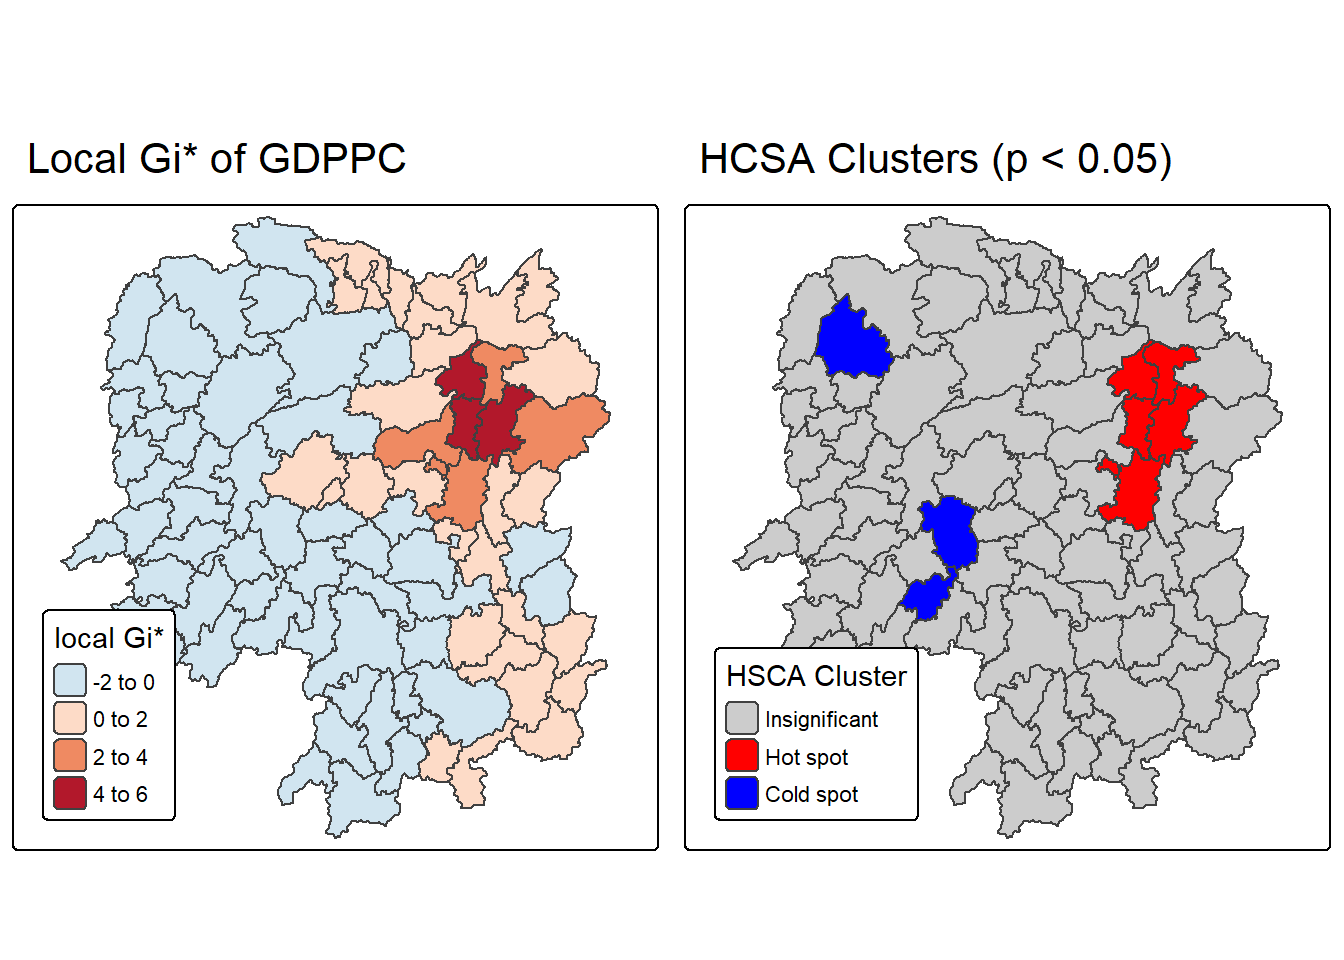
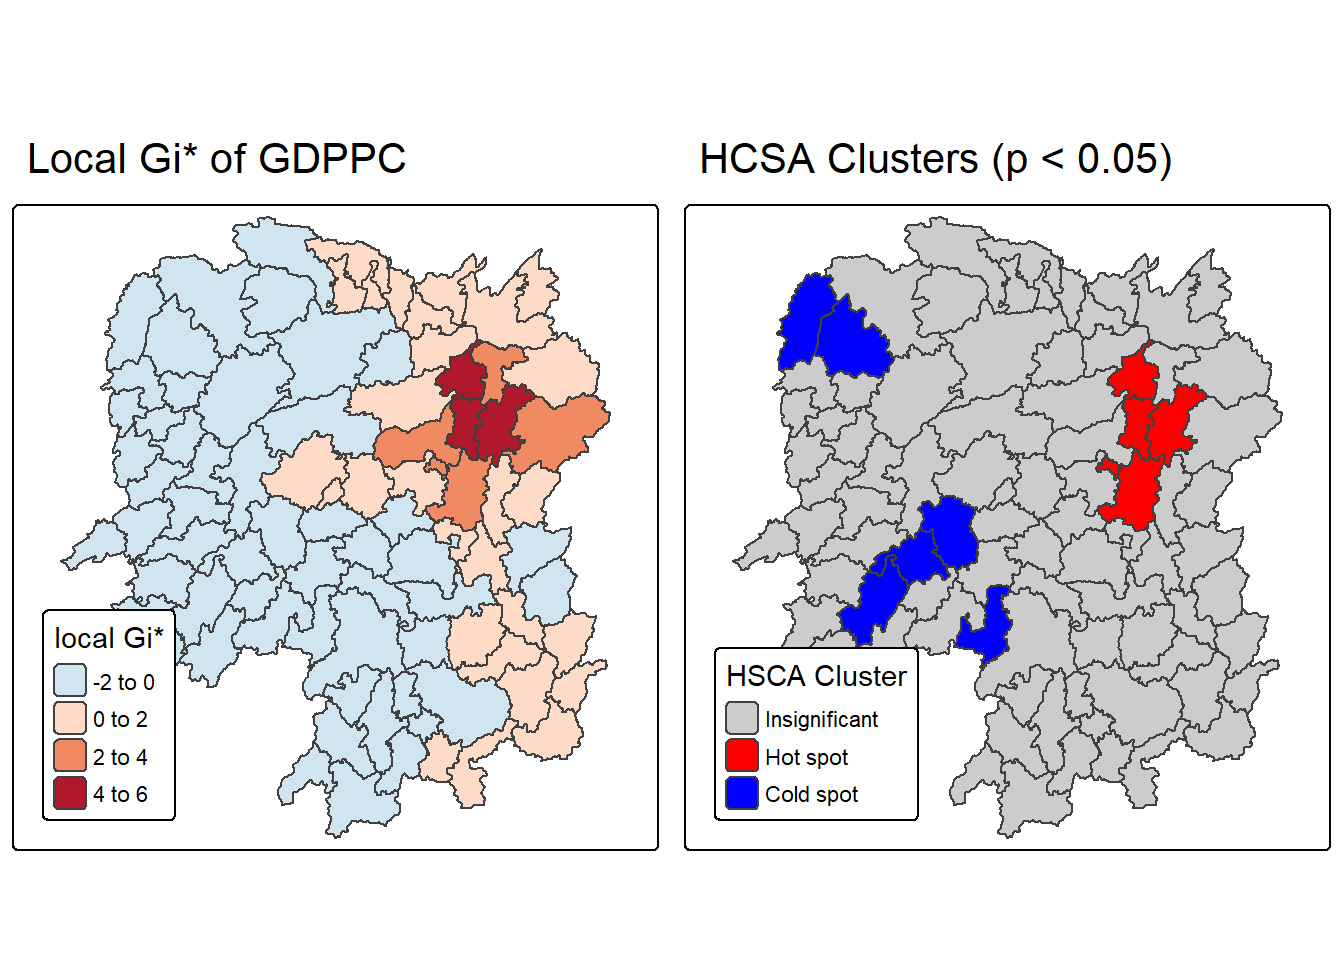
Committing changes for Hands-on Ex05b

Changed region(s): [[0.625, 0.5625, 0.75, 0.6875], [0.5625, 0.2812, 0.625, 0.375], [0.8438, 0.3438, 0.9062, 0.4375]]

diff --git a/_site/Hands-on_Ex/Hands-on_Ex05/Hands-on_Ex05b.html b/_site/Hands-on_Ex/Hands-on_Ex05/Hands-on_Ex05b.html
@@ -667,14 +667,14 @@ Tip
 <pre><code>Rows: 88
 Columns: 21
 $ ii           &lt;dbl&gt; -1.468468e-03, 2.587817e-02, -1.198765e-02, 1.022468e-03,…
-$ eii          &lt;dbl&gt; -2.978856e-03, -3.059861e-03, -5.007384e-02, -1.235785e-0…
-$ var_ii       &lt;dbl&gt; 7.392761e-04, 1.095661e-02, 8.216017e-02, 3.700893e-06, 1…
-$ z_ii         &lt;dbl&gt; 0.05555015, 0.27645917, 0.13287304, 0.59572914, 0.4190825…
-$ p_ii         &lt;dbl&gt; 9.557002e-01, 7.821954e-01, 8.942938e-01, 5.513562e-01, 6…
-$ p_ii_sim     &lt;dbl&gt; 0.78, 1.00, 0.72, 0.62, 0.62, 0.86, 0.04, 0.06, 0.02, 0.2…
-$ p_folded_sim &lt;dbl&gt; 0.39, 0.50, 0.36, 0.31, 0.31, 0.43, 0.02, 0.03, 0.01, 0.1…
-$ skewness     &lt;dbl&gt; -1.4635639, -0.8413750, 0.8119844, 0.3664154, 1.0689240, …
-$ kurtosis     &lt;dbl&gt; 3.3533741, 0.2413665, 0.2255343, -0.2958679, 1.0379487, 0…
+$ eii          &lt;dbl&gt; -1.452662e-03, 4.910310e-03, -8.368546e-03, 2.536916e-04,…
+$ var_ii       &lt;dbl&gt; 3.699390e-04, 1.136437e-02, 1.362830e-01, 5.630196e-06, 1…
+$ z_ii         &lt;dbl&gt; -0.0008217606, 0.1966896851, -0.0098034656, 0.3239948542,…
+$ p_ii         &lt;dbl&gt; 9.993443e-01, 8.440704e-01, 9.921781e-01, 7.459419e-01, 6…
+$ p_ii_sim     &lt;dbl&gt; 0.92, 0.98, 0.74, 0.70, 0.66, 0.76, 0.02, 0.14, 0.02, 0.1…
+$ p_folded_sim &lt;dbl&gt; 0.46, 0.49, 0.37, 0.35, 0.33, 0.38, 0.01, 0.07, 0.01, 0.0…
+$ skewness     &lt;dbl&gt; -0.7897984, -0.8968499, 1.3021867, 0.8454351, 0.4148598, …
+$ kurtosis     &lt;dbl&gt; 0.45812034, 0.40544752, 1.58194445, 0.23248532, -0.118471…
 $ mean         &lt;fct&gt; Low-High, Low-Low, High-Low, High-High, High-High, High-L…
 $ median       &lt;fct&gt; High-High, High-High, High-High, High-High, High-High, Hi…
 $ pysal        &lt;fct&gt; Low-High, Low-Low, High-Low, High-High, High-High, High-L…
@@ -1296,6 +1296,43 @@ fit well, and are therefore rescaled.
 </div>
 </div>
 </div>
+<div class="callout callout-style-default callout-note callout-titled">
+<div class="callout-header d-flex align-content-center">
+<div class="callout-icon-container">
+<i class="callout-icon"></i>
+</div>
+<div class="callout-title-container flex-fill">
+Note
+</div>
+</div>
+<div class="callout-body-container callout-body">
+<p>The choropleth map generated by the code visualizes the <strong>statistical significance of local Gi*</strong> values for GDP per capita (GDPPC) across regions using a <strong>fixed distance weight matrix</strong>. Each polygon is shaded based on its simulated p-value, which indicates how likely the observed clustering of high or low GDPPC values occurred by chance. Darker shades (e.g., dark red) represent lower p-values, suggesting stronger evidence of significant clustering—either hot spots or cold spots—while lighter shades (e.g., beige) indicate weaker or non-significant clustering.</p>
+<p>This visualization is crucial because it separates <strong>statistical strength</strong> from raw Gi* values. Even if a region has a high or low Gi* score, it may not be meaningful unless the p-value confirms it’s unlikely to be random. By using <code>tm_scale_intervals()</code> with defined p-value breaks (e.g., &lt;0.001, &lt;0.01, &lt;0.05), the map clearly distinguishes regions with strong spatial clustering from those with ambiguous or insignificant patterns. The inclusion of <code>include_self()</code> in the weight matrix ensures proper calculation of Gi*, and the use of <code>brewer.Reds</code> color scale emphasizes the gradient of significance.</p>
+<hr>
+<ul>
+<li><strong>Color-coded p-values</strong>:
+<ul>
+<li>&lt;0.001: Strongest evidence of clustering (dark red).</li>
+<li>0.001–0.01: Very strong evidence (red).</li>
+<li>0.01–0.05: Statistically significant (orange).</li>
+<li>0.05–0.1: Marginal significance (light orange).</li>
+<li><blockquote class="blockquote">
+<p>0.1: Not significant (beige).</p>
+</blockquote></li>
+</ul></li>
+<li><strong>Fixed distance method</strong>:
+<ul>
+<li>Neighbors defined within a set spatial threshold.</li>
+<li>Ensures consistent spatial comparison across regions.</li>
+</ul></li>
+<li><strong>Purpose</strong>:
+<ul>
+<li>Highlights where GDPPC clustering is statistically robust.</li>
+<li>Supports spatial decision-making by identifying meaningful hot/cold spots.</li>
+</ul></li>
+</ul>
+</div>
+</div>
 </section>
 <section id="mapping-both-gi-values-and-p-values" class="level4" data-number="8.3.3">
 <h4 data-number="8.3.3" class="anchored" data-anchor-id="mapping-both-gi-values-and-p-values"><span class="header-section-number">8.3.3</span> Mapping both Gi* values and p-values</h4>
@@ -1342,6 +1379,41 @@ fit well, and are therefore rescaled.
 <p><img src="Hands-on_Ex05b_files/figure-html/unnamed-chunk-28-1.png" class="img-fluid figure-img" width="672"></p>
 </figure>
 </div>
+</div>
+</div>
+<div class="callout callout-style-default callout-note callout-titled">
+<div class="callout-header d-flex align-content-center">
+<div class="callout-icon-container">
+<i class="callout-icon"></i>
+</div>
+<div class="callout-title-container flex-fill">
+Note
+</div>
+</div>
+<div class="callout-body-container callout-body">
+<p>The visualization created by the code displays two choropleth maps side by side, offering a comprehensive view of spatial clustering in GDP per capita (GDPPC) across regions. The <strong>left map</strong> shows the <strong>local Gi*</strong> statistic, which measures the intensity and direction of clustering—positive values (in red) indicate hot spots where high GDPPC values are surrounded by other high values, while negative values (in blue) indicate cold spots where low GDPPC values are clustered. This map helps identify the spatial distribution of economic performance.</p>
+<p>The <strong>right map</strong> complements this by showing the <strong>p-values</strong> associated with each Gi* statistic, using a fixed distance weight matrix. Regions shaded in darker reds have lower p-values, indicating stronger statistical significance and higher confidence that the observed clustering is not due to random chance. Lighter shades suggest weaker or non-significant clustering. Together, these maps allow for a more robust interpretation—highlighting not just where clustering occurs, but where it is statistically meaningful.</p>
+<hr>
+<ul>
+<li><strong>Local Gi* Map (Left):</strong>
+<ul>
+<li>Red shades: High-value clusters (hot spots).</li>
+<li>Blue shades: Low-value clusters (cold spots).</li>
+<li>Uses <code>brewer.rd_bu</code> for diverging color scale.</li>
+</ul></li>
+<li><strong>P-value Map (Right):</strong>
+<ul>
+<li>Dark red: p &lt; 0.001 (very strong significance).</li>
+<li>Red to orange: p &lt; 0.05 (statistically significant).</li>
+<li>Light peach: p ≥ 0.05 (not significant).</li>
+<li>Uses <code>brewer.reds</code> for sequential color scale.</li>
+</ul></li>
+<li><strong>Interpretation Strategy:</strong>
+<ul>
+<li>Focus on regions with both high Gi* and low p-values.</li>
+<li>These are statistically significant hot or cold spots worth further analysis or policy attention.</li>
+</ul></li>
+</ul>
 </div>
 </div>
 </section>
@@ -1403,6 +1475,28 @@ fit well, and are therefore rescaled.
 <p><img src="Hands-on_Ex05b_files/figure-html/unnamed-chunk-31-1.png" class="img-fluid figure-img" width="672"></p>
 </figure>
 </div>
+</div>
+</div>
+<div class="callout callout-style-default callout-note callout-titled">
+<div class="callout-header d-flex align-content-center">
+<div class="callout-icon-container">
+<i class="callout-icon"></i>
+</div>
+<div class="callout-title-container flex-fill">
+Note
+</div>
+</div>
+<div class="callout-body-container callout-body">
+<p>The map generated from the code presents a <strong>side-by-side visualization</strong> of two key outputs from Hot Spot and Cold Spot Analysis (HCSA) using the Getis-Ord Gi* statistic. This dual-map layout enhances interpretability by combining both the <strong>magnitude of spatial clustering</strong> (Gi* values) and its <strong>statistical significance</strong> (HCSA classification).</p>
+<p>The <strong>left map</strong>, titled <em>“Local Gi* of GDPPC”</em>, displays the raw Gi* statistic values for GDP per capita across regions. Red shades indicate <strong>hot spots</strong>—areas with high GDPPC surrounded by other high-value regions—while blue shades represent <strong>cold spots</strong>, where low GDPPC values are clustered. The intensity of color reflects the strength of clustering, with deeper hues indicating stronger local spatial association.</p>
+<p>The <strong>right map</strong>, titled <em>“HCSA Clusters (p &lt; 0.05)”</em>, simplifies interpretation by categorizing regions based on the statistical significance of their clustering. It uses: - <strong>Red</strong> for statistically significant hot spots (p ≤ 0.05 and cluster = “High”), - <strong>Blue</strong> for significant cold spots (p ≤ 0.05 and cluster = “Low”), - <strong>Grey</strong> for areas where clustering is <strong>not statistically significant</strong> (p &gt; 0.05).</p>
+<hr>
+<ul>
+<li><strong>Combines magnitude and significance</strong>: Helps distinguish strong Gi* values that are statistically meaningful from those that may be random.</li>
+<li><strong>Policy relevance</strong>: Highlights priority zones for economic intervention or support.</li>
+<li><strong>Visual clarity</strong>: Uses intuitive color coding and categorical classification for quick interpretation.</li>
+</ul>
+<p>Let me know if you’d like to overlay this with demographic data or compare results using adaptive distance weights!</p>
 </div>
 </div>
 

diff --git a/_site/index.html b/_site/index.html
@@ -358,7 +358,7 @@ window.Quarto = {
 <h2 class="anchored" data-anchor-id="hands-on-exercise"><a href=".\Hands-on_Ex/">Hands-on Exercise</a></h2>
 <div id="listing-hands_on" class="listing quarto-listing quarto-listing-container-grid">
 <div class="list grid quarto-listing-cols-3">
-<div class="g-col-1" data-index="0" data-listing-date-sort="1758556800000" data-listing-file-modified-sort="1758870327531" data-listing-date-modified-sort="1758870327000" data-listing-reading-time-sort="37" data-listing-word-count-sort="7206">
+<div class="g-col-1" data-index="0" data-listing-date-sort="1758556800000" data-listing-file-modified-sort="1758870915899" data-listing-date-modified-sort="1758870915000" data-listing-reading-time-sort="40" data-listing-word-count-sort="7932">
 <a href="./Hands-on_Ex/Hands-on_Ex05/Hands-on_Ex05b.html" class="quarto-grid-link">
 <div class="quarto-grid-item card h-100 card-left">
 <p class="card-img-top"><img src="Hands-on_Ex\Hands-on_Ex05\Hands-on_Ex05b_files\figure-html\unnamed-chunk-5-1.png" style="height: 150px;"  class="thumbnail-image card-img"/></p>
@@ -367,7 +367,7 @@ window.Quarto = {
 Hands-on Exercise 5B: Local Measures of Spatial Autocorrelation
 </h5>
 <div class="listing-reading-time card-text text-muted">
-37 min
+40 min
 </div>
 <div class="card-attribution card-text-small end">
 <div class="listing-date">

diff --git a/_site/Hands-on_Ex/index.html b/_site/Hands-on_Ex/index.html
@@ -305,7 +305,7 @@ window.Quarto = {
     </div>
 </div>
 <div class="list grid quarto-listing-cols-3">
-<div class="g-col-1" data-index="0" data-listing-date-sort="1758556800000" data-listing-file-modified-sort="1758870327531" data-listing-date-modified-sort="1758870327000" data-listing-reading-time-sort="37" data-listing-word-count-sort="7206">
+<div class="g-col-1" data-index="0" data-listing-date-sort="1758556800000" data-listing-file-modified-sort="1758870915899" data-listing-date-modified-sort="1758870915000" data-listing-reading-time-sort="40" data-listing-word-count-sort="7932">
 <a href="../Hands-on_Ex/Hands-on_Ex05/Hands-on_Ex05b.html" class="quarto-grid-link">
 <div class="quarto-grid-item card h-100 card-left">
 <p class="card-img-top"><img src="Hands-on_Ex05\Hands-on_Ex05b_files\figure-html\unnamed-chunk-5-1.png" style="height: 150px;"  class="thumbnail-image card-img"/></p>
